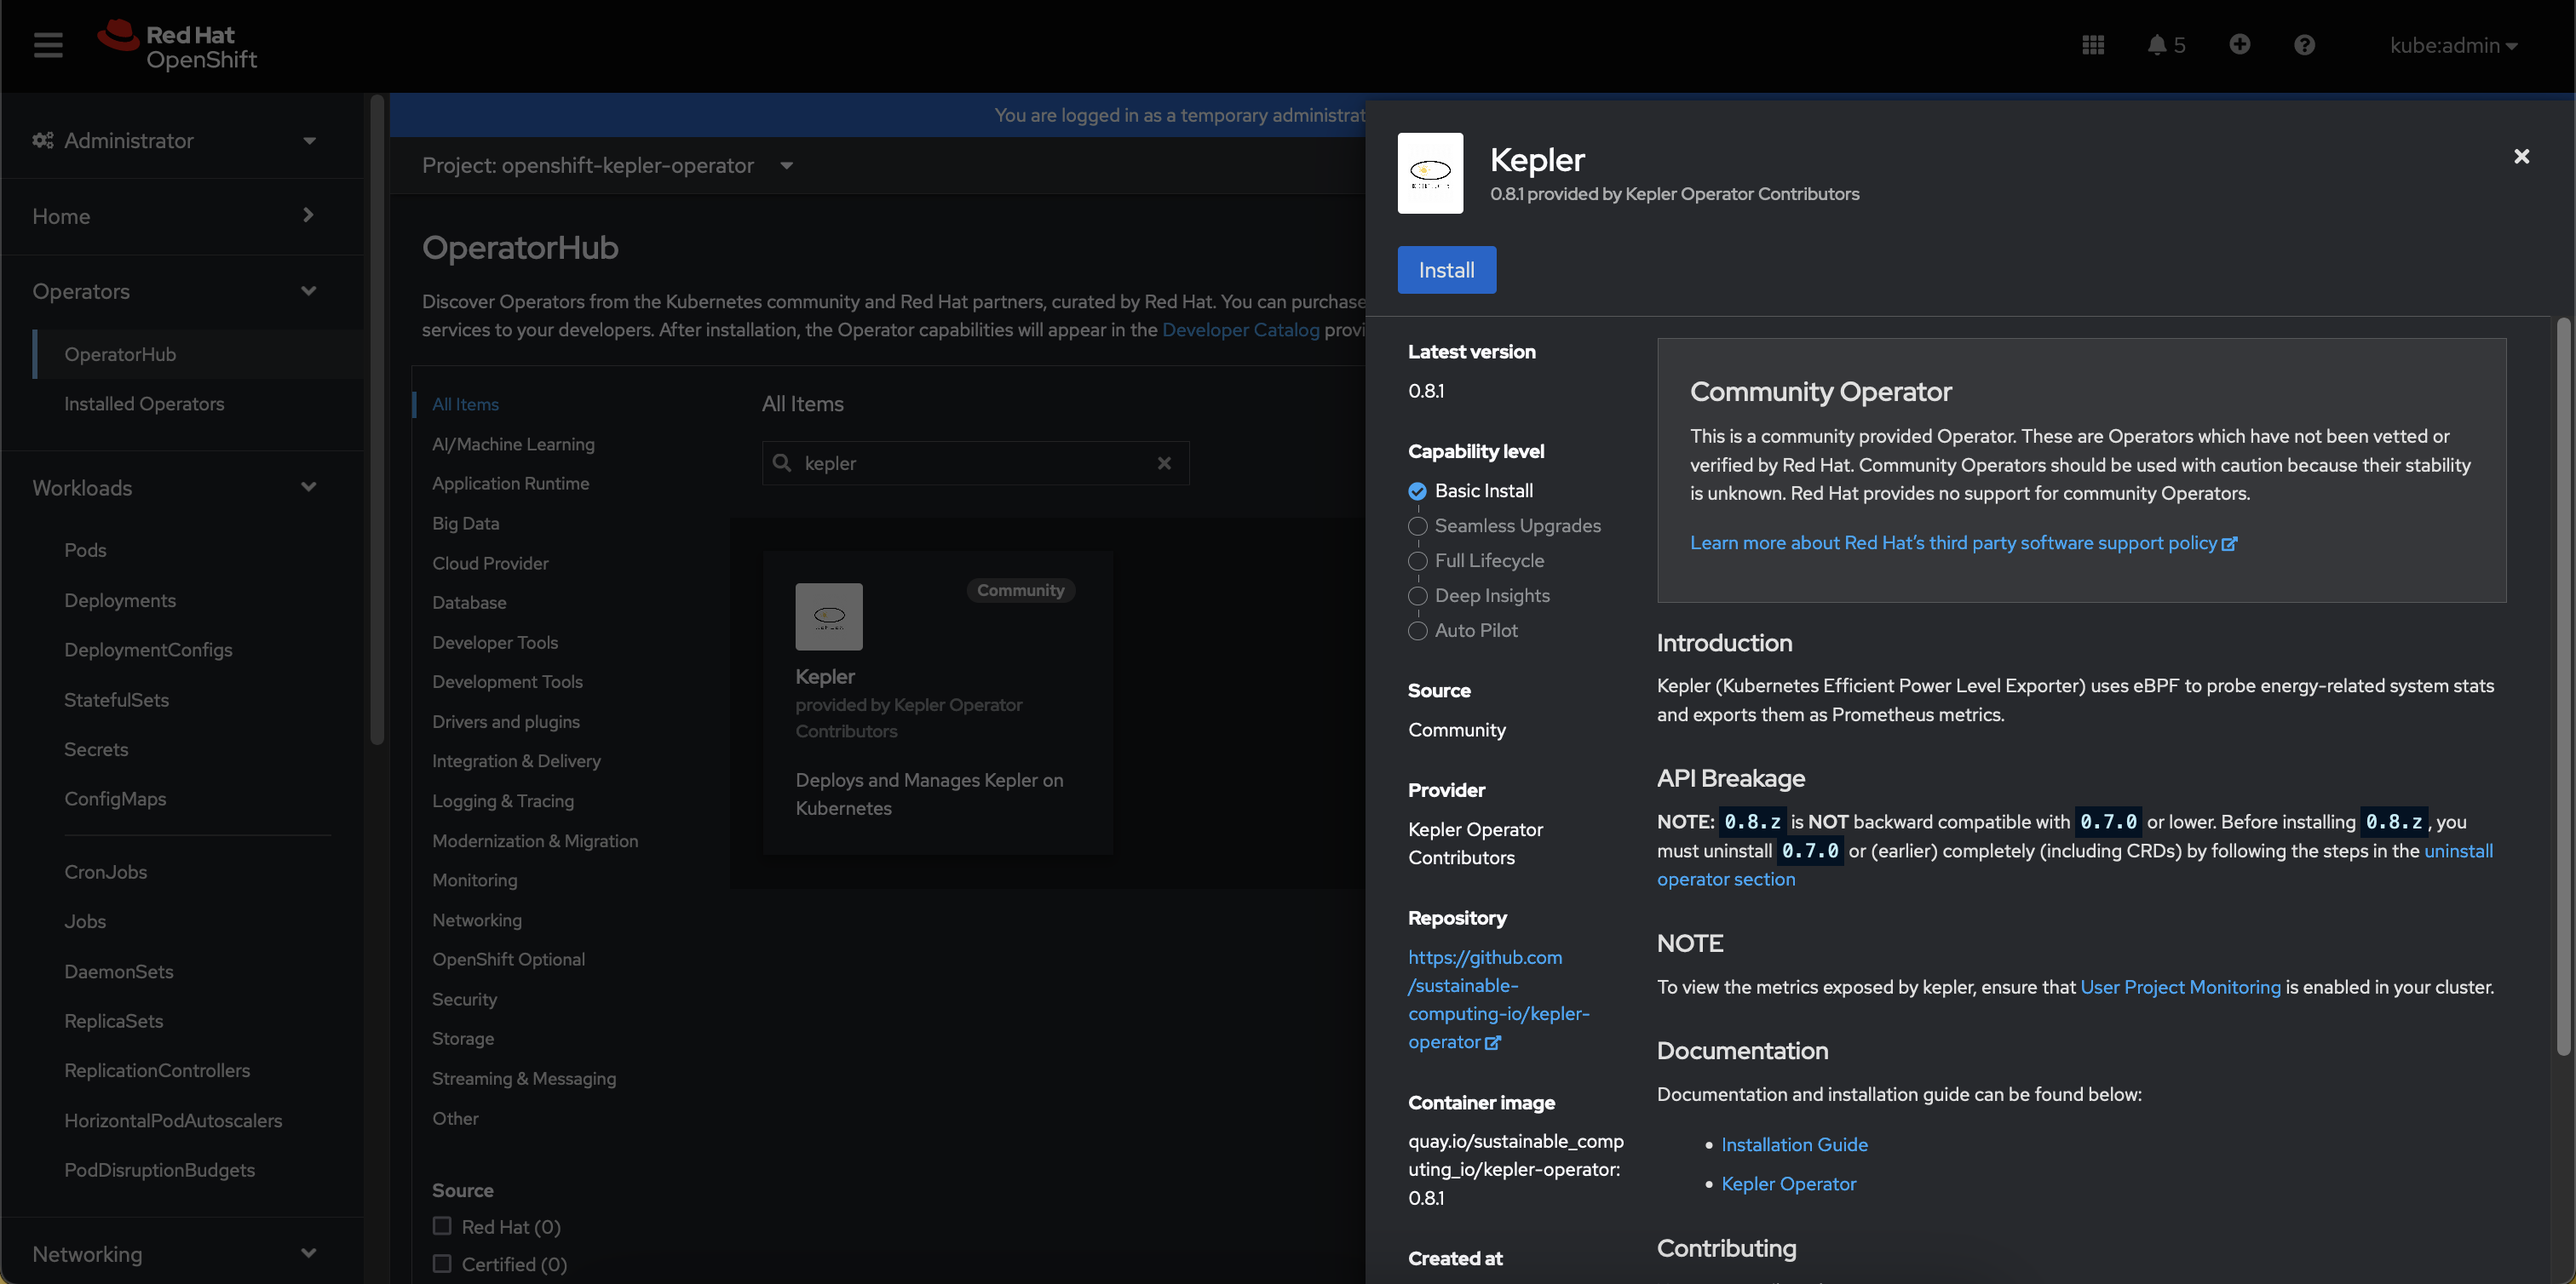
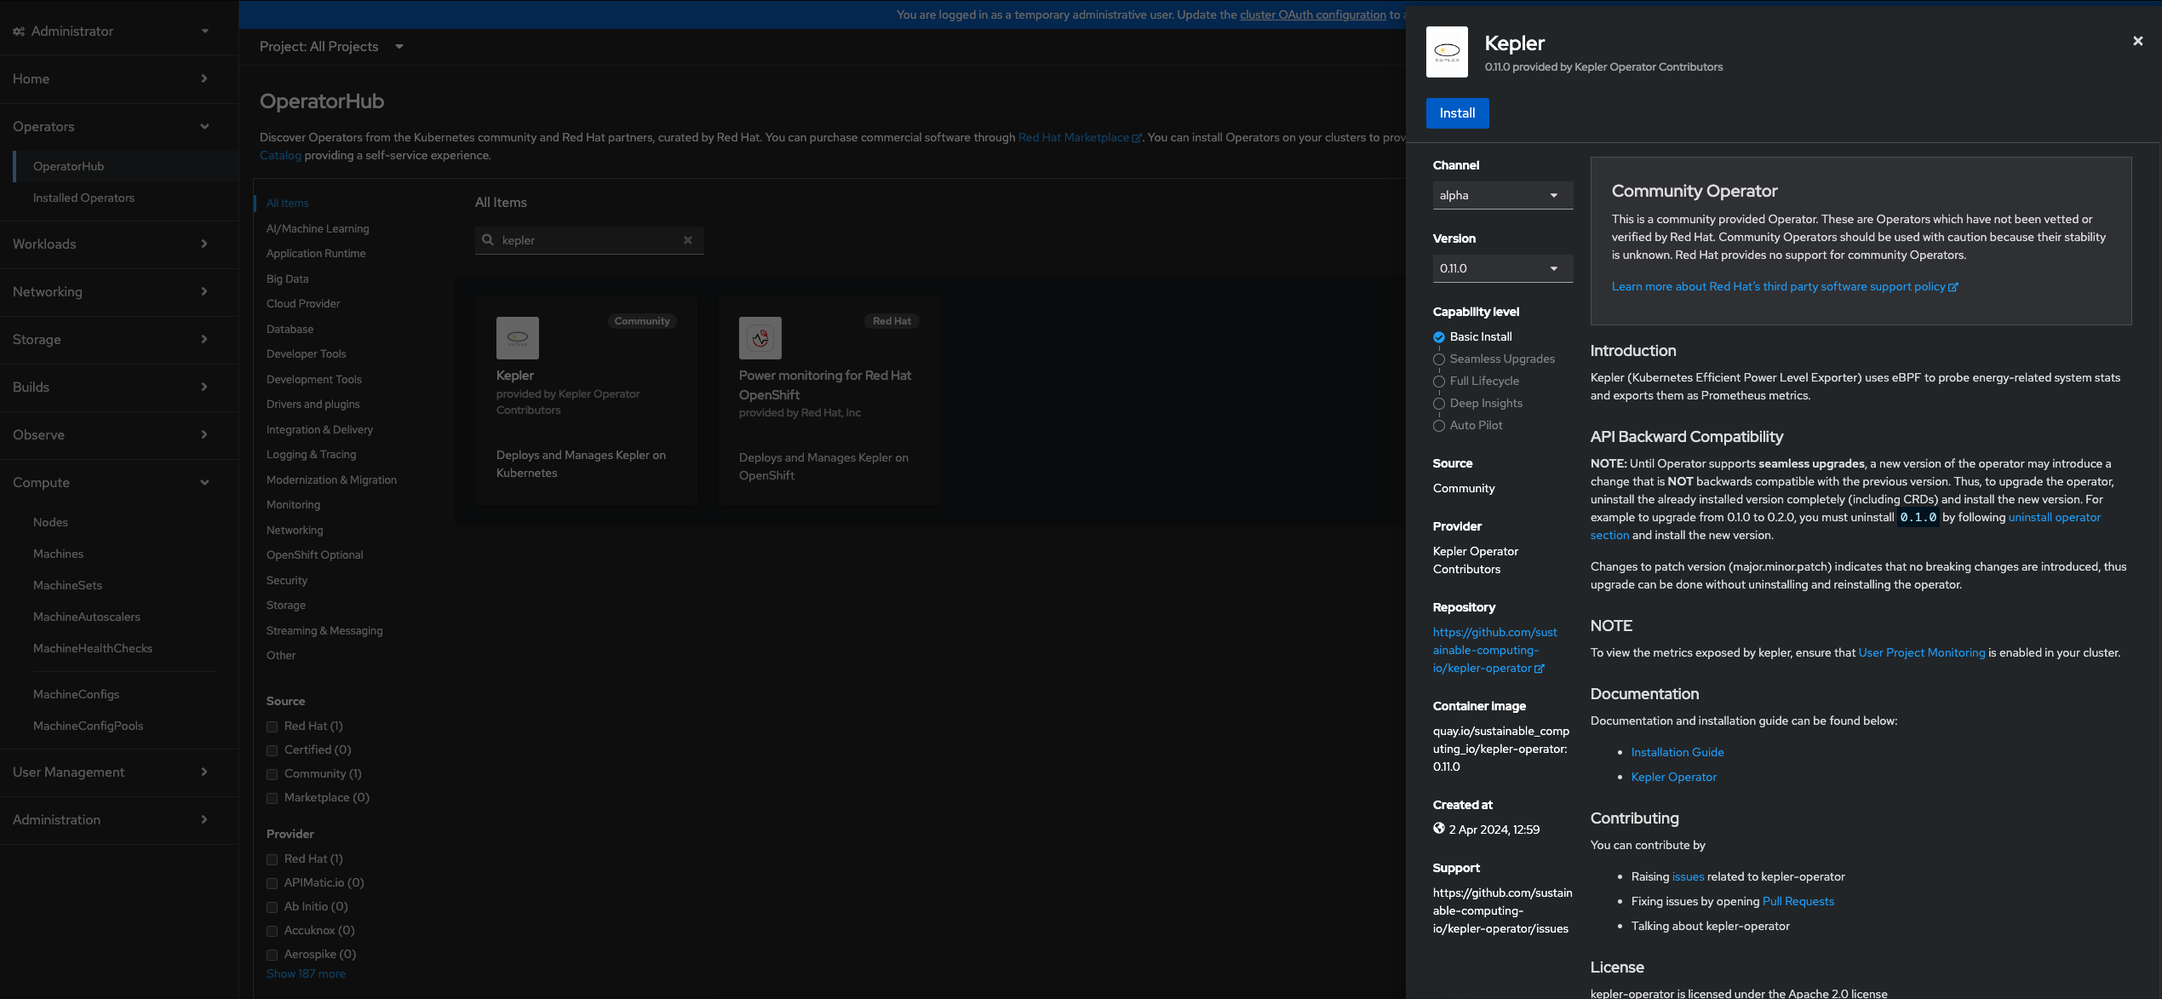
chore: update ocp installation instructions for kepler operator

diff --git a/docs/installation/community-operator.md b/docs/installation/community-operator.md
@@ -21,7 +21,7 @@ cd kepler-operator
 If you have previously installed the Kepler Community Operator this will need
 to be removed prior to the installation of the `v0.8.z` version or above of the operator.
 This is due to changes to the Kepler API that are backward incompatible.
-Please also note that `v1alpha` does not promise backward compatibility and backward incompatible changes are expected until the API matures to `v1beta1`.
+Please also note that `v1alpha1` does not promise backward compatibility and backward incompatible changes are expected until the API matures to `v1beta1`.
 
 To remove the Kepler Operator use the [Uninstall Operator Script](https://github.com/sustainable-computing-io/kepler-operator/blob/v1alpha1/hack/uninstall-operator.sh) in the [Kepler-Operator repo](https://github.com/sustainable-computing-io/kepler-operator)
 
@@ -81,7 +81,10 @@ operatorcondition.operators.coreos.com/kepler-operator.v0.8.1   12h
 
 ![Operator installation in OCP](../fig/ocp_installation/operator_installation_ocp_1_0.8.z.png)
 
-- Choose `alpha` or `dev-preview` channel for deploying the `latest` or the `developer preview` version of the Operator respectively.
+- Choose `alpha` channel for deploying the `latest` version of the Operator.
+
+> **From OCP 4.15 onwards operator can be installed on Namespace other than `openshift-operators`**
+
 - Click on `Install`
 
 ![Operator installation in OCP](../fig/ocp_installation/operator_installation_ocp_2_0.8.z.png)
@@ -106,10 +109,6 @@ Operator.
 ![Operator installation in OCP](../fig/ocp_installation/operator_installation_ocp_5b_0.8.z.png)
 
 - Once Kepler is configured select `Create`.
-
-- Check that the Availability status of Kepler Instance should be `True`
-
-![Operator installation in OCP](../fig/ocp_installation/operator_installation_ocp_6_0.8.z.png)
 
 - Check that the Kepler is deployed and available
 
@@ -194,7 +193,7 @@ The dashboard can also be accessed through the OCP UI, Go to Networking ❯ Rout
 
 Refer to the [Grafana Deployment Overview](https://github.com/sustainable-computing-io/kepler-operator/blob/v1alpha1/docs/developer/assets/grafana-deployment-overview.png)
 
-![Grafana deployment overview](https://github.com/sustainable-computing-io/kepler-operator/blob/v1alpha1/docs/developer/assets/grafana-deployment-overview.png)
+![Grafana's deployment overview](https://raw.githubusercontent.com/sustainable-computing-io/kepler-operator/v1alpha1/docs/developer/assets/grafana-deployment-overview.png)
 
 ---
 
@@ -202,7 +201,7 @@ Refer to the [Grafana Deployment Overview](https://github.com/sustainable-comput
 
 ### Will Kepler work on earlier releases of OpenShift?
 
-Our recommendation is use `OCP 4.13`, but Kepler has been installed on `OCP 4.11`
+Our recommendation is use `OCP 4.13` and above, but Kepler can be installed on `OCP 4.11`
 and `4.12`. In future the Operator may be updated to check the version of
 Kubernetes that is installed e.g. `v1.25`.
 
@@ -227,10 +226,35 @@ exporter:
         effect: NoExecute
 ```
 
+### How do I specify Redfish related configuration?
+
+You can specify Redfish related configuration for Kepler at the time of creating Instance.
+You can specify both in `Form` and `YAML` view.
+
+- To specify in `YAML` view:
+
+```yaml
+spec:
+  exporter:
+    deployment:
+      port: 9103
+      tolerations:
+        - operator: Exists
+    redfish:
+      secretRef: redfish-secret
+      probeInterval: 60s
+      skipSSLVerify: false
+```
+
+> Note: Once instance is created user need to manually create redfish secret `redfish-secret` in the namespace `kepler-operator`. Once secret is created operator will reconcile and Kepler will be able to connect to Redfish.
+
+For more info regarding specifying content of secret refer to [upstream manifest](https://raw.githubusercontent.com/sustainable-computing-io/kepler/main/manifests/config/exporter/redfish.csv).
+
 ### Where is Kepler exporter pods deployed?
 
-Once Kepler Instance is created all the related resources like pods, daemonsets, configmaps, secret's etc. are present inside `openshift-kepler-operator` namespace. To view the available resources:
+Once Kepler Instance is created all the related resources like pods, daemonsets, configmaps, secret's etc. are present inside `kepler-operator` namespace.
+To view the available resources:
 
 ```sh
-oc get all -n openshift-kepler-operator
+oc get all -n kepler-operator
 ```
